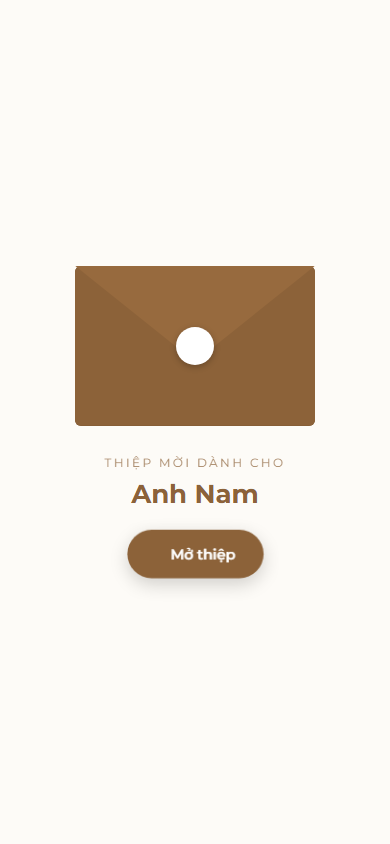
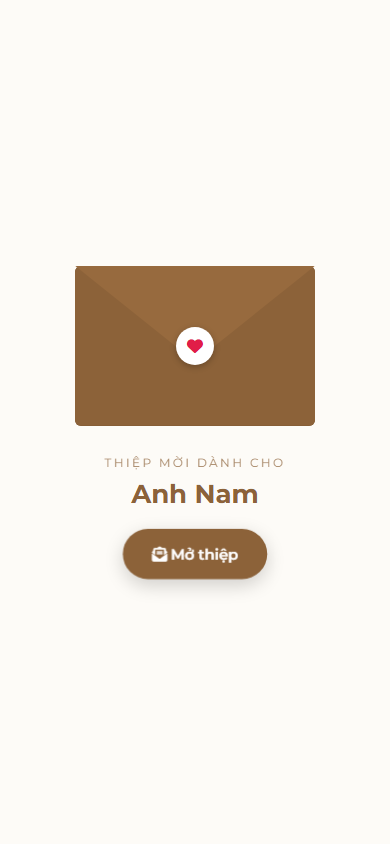
Hồ sơ: phiếu T16.1a/b sau rà thẩm mỹ, ảnh intro chụp lại

diff --git a/docs/thiep-tuy-bien-sau/giao_viec/T16.1b_editor_polish.md b/docs/thiep-tuy-bien-sau/giao_viec/T16.1b_editor_polish.md
@@ -1,0 +1,15 @@
+# T16.1b — Sidebar, inspector, font whitelist, intro theo rà T16/T15.1
+
+- **Sub-agent**: `frontend-ui` · **Đợt**: 7 · **Phụ thuộc**: T16, T15.1 · **Review**: không
+- **Tệp được sửa**: `js/render.js`, `js/editor.js` (chỉ dòng font của export), `css/app.css`, `css/invite.css`
+
+## Việc
+1. render.js:~311 `frame.style.fontFamily = g.bodyFont` → `safeFontCss(g.bodyFont, DEFAULT_STATE.globalStyle.bodyFont)` (helper có trong state.js).
+2. editor.js export: `font-family` trong attribute style dùng `safeFont(g.bodyFont, …)` thay giá trị thô.
+3. Sidebar danh sách section (render.js): thẻ gọn ~48px; tên `line-clamp-2` thay vì cắt; giữ ↑ ↓ và mắt (≥ 32×32px), gom nhân bản + xoá vào menu "⋯" nhỏ (đóng khi bấm ngoài/Esc, không confirm()); hộp "Mẹo" (nếu render.js vẽ) có nút đóng, nhớ trạng thái bằng localStorage try/catch — nếu hộp mẹo nằm tĩnh trong index.html thì bỏ qua và ghi Đề xuất.
+4. Inspector "Nền & Trang trí" (render.js:226-227): ô màu `w-10 h-9`, nút "Bỏ nền" `min-h-[36px] px-2`; nhãn trường 12px `font-semibold text-slate-700`.
+5. app.css: `.card-root, #sectionsViewport { overflow-x: clip; }`; reveal-slide dịch `-20px`; khi có `frame-*` hoặc `orn-*`, `.wedding-section` thêm `padding-inline: 20px`; dưới 480px hoa góc 56px opacity .65, frame-double 3px.
+6. invite.css: `.intro-to` opacity .9; flap `filter: drop-shadow(0 2px 2px rgba(0,0,0,.18))`, brightness flap 1.15 / front .96; icon seal dùng `color: var(--intro-color)`.
+
+## Tiêu chí đạt
+Không đổi hành vi; canvas mặc định tương tự; không tràn ngang 390px (phiên chính kiểm CDP).

diff --git a/docs/thiep-tuy-bien-sau/giao_viec/T16.1a_typo_section.md b/docs/thiep-tuy-bien-sau/giao_viec/T16.1a_typo_section.md
@@ -1,0 +1,12 @@
+# T16.1a — Chữ trong section theo rà thẩm mỹ T16
+
+- **Sub-agent**: `frontend-ui` · **Đợt**: 7 · **Phụ thuộc**: T16 · **Review**: không
+- **Tệp được sửa**: `js/sections/{hero,family,album,countdown,story,video}.js` (chỉ đổi class Tailwind/kích thước chữ, không đổi data/hợp đồng)
+
+## Việc
+1. Chữ phụ cần đọc ≥ 12px, nhãn ≥ 11px; opacity chữ phụ ≥ 0.8 (footerCredit giữ 0.6). Vị trí theo review: family.js:27,32,39; album.js:37,52; story.js:112; video.js:52; countdown.js:54; hero.js:28.
+2. Không in đậm giả font script: bỏ `font-bold` ở chữ dùng `v.scriptFont` (hero.js:23, countdown.js:59); family.js:43 tên bố mẹ dùng `v.secFont`/headingFont thay script.
+3. Ghi chú `text-slate-400` trong inspector (video.js:75, story.js:158) → `text-slate-500`.
+
+## Tiêu chí đạt
+Canvas mặc định không vỡ bố cục; fuzz injection vẫn sạch (phiên chính chạy).
